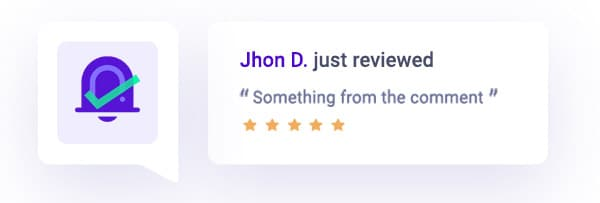
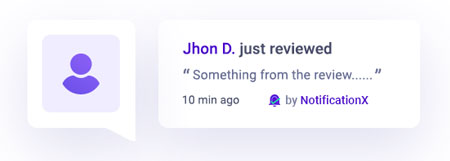
CSS Issue fix - 2

diff --git a/public/assets/css/notificationx-public.min.css b/public/assets/css/notificationx-public.min.css
@@ -1,1 +1,1 @@
-.nx-notification{position:fixed;left:30px;z-index:9999}a.notificationx-link{position:absolute;left:0;top:0;width:100%;height:100%;outline:0}.nx-notification.nx-bottom_right{right:30px;left:auto}.notificationx-inner{display:flex;align-items:center;overflow:hidden;padding:15px;background:#fff;box-shadow:0 0 30px 0 rgba(0,0,0,.1);max-width:400px}.nx-flex-reverse.notificationx-inner{flex-direction:row-reverse}.nx-has-close-btn.notificationx-inner{padding-right:30px!important}span.notificationx-close{position:absolute;right:10px;top:10px;z-index:999;cursor:pointer;width:8px;height:8px}span.notificationx-close>svg{fill:#000;position:absolute}.notificationx-image{width:60px;height:60px;overflow:hidden;float:left;margin-right:15px;display:flex;align-items:center;flex-shrink:0}.nx-img-right .notificationx-image{margin-left:15px;margin-right:0}.notificationx-image img.nx-img-square{border-radius:0!important}.notificationx-image img.nx-img-circle,.notificationx-image>img{border-radius:50%!important}.notificationx-image img.nx-img-rounded{border-radius:5px!important}.notificationx-image>img{width:100%}.notificationx-inner.nx-img-right .notificationx-content{display:flex;flex-direction:column}.notificationx-inner.nx-img-right .notificationx-content .nx-branding{position:static;margin-left:15px;padding:0}.notificationx-content{float:left;min-width:200px;display:flex;flex-direction:column}.notificationx-content>span{display:block}.notificationx-content>span.nx-third-row{display:inline-block;width:100%;overflow:hidden}.nx-first-row{font-size:12px;line-height:1.2}.nx-second-row{margin:5px 0;font-size:14px;font-weight:bolder;line-height:1.5}.nx-third-row{font-size:11px;line-height:1}.nx-author{font-weight:600}.nx-time{display:block}.nx-bar{background:#ddd;position:absolute;z-index:999999;visibility:hidden;width:100%;left:0;text-align:center;transition:height .3s ease-in-out 0s}.nx-bar .nx-bar-inner{padding:20px;display:inline-block}.nx-bar-content-wrap{display:flex;align-items:center}.nx-bar-content{display:inline-block;margin-left:15px}.nx-bar.nx-position-bottom{position:fixed;bottom:0}.nx-bar.nx-position-top{top:0}.nx-bar-visible{visibility:visible}a.nx-bar-button{font-size:14px;padding:6px 15px;margin-left:15px;background-color:#262626;color:#fff;border-radius:3px}a.nx-bar-button:hover{color:#fff}.nx-close{margin:0;position:absolute;right:30px;margin-top:-5px;cursor:pointer;top:50%;color:#fff;border-radius:50%;width:10px;height:10px;line-height:17px;font-size:14px}.nx-close>svg{position:absolute;left:0}.nx-sticky-bar{position:fixed;width:100%}.nx-countdown-wrapper{display:flex;align-items:center}.nx-countdown{overflow:hidden;background-color:#262626;color:#fff}.nx-countdown-text{margin-right:10px}.nx-time-section{float:left;margin:0 5px;padding:10px;position:relative;width:40px}.nx-time-section:after{content:":";position:absolute;right:-6px;top:9px;line-height:1}.nx-time-section:last-of-type:after{display:none}.nx-time-section>span{display:block;line-height:1}.nx-time-section>span.nx-countdown-time-text{display:none;font-size:14px}.nx-countdown.nx-expired .nx-time-section{background-color:#262626}.nx-countdown .nx-expired-text,.nx-countdown.nx-expired .nx-time-section>span{display:none}.nx-countdown.nx-expired .nx-expired-text{display:block}.nx-bar.theme-two{background-color:#5704a2;color:#fff}.nx-bar.theme-three{background-color:#3f4462;color:#fff}.nx-bar.theme-three .nx-time-section,.nx-bar.theme-three a.nx-bar-button{background-color:#6549fe}.nx-bar.theme-three .nx-time-section:after{content:''}.nx-bar.theme-three .nx-countdown{background-color:transparent}.nx-bar.theme-three .nx-time-section{width:55px}.nx-bar.theme-three .nx-time-section>span.nx-countdown-time-text{display:block}.nx-bar.theme-three p.nx-close>svg,.nx-bar.theme-two p.nx-close>svg{fill:#fff}.nx-branding{font-size:10px;color:#999;margin-left:2px;vertical-align:middle;z-index:9999;float:right;position:relative;top:-4px}.nx-img-right .nx-branding{float:none}.nx-branding svg{position:relative;top:4px}a.nx-powered-by{cursor:pointer;color:#5614d5;transition:all .3s ease-in-out;text-decoration:none}a.nx-powered-by:hover{color:#21d8a3}.notificationx-inner.nx-notification-theme-one{border:1px solid #f2f2f2}.notificationx-inner.nx-notification-review_saying,.notificationx-inner.nx-notification-reviewed,.notificationx-inner.nx-notification-theme-two,.notificationx-inner.nx-notification-total-download{border-radius:50px;padding-right:50px}.notificationx-inner.nx-notification-review_saying span.notificationx-close,.notificationx-inner.nx-notification-reviewed span.notificationx-close,.notificationx-inner.nx-notification-theme-two span.notificationx-close,.notificationx-inner.nx-notification-total-download span.notificationx-close{right:20px;top:25px}.nx-notification-review_saying .nx-branding,.nx-notification-reviewed .nx-branding,.nx-notification-theme-two .nx-branding,.nx-notification-total-download .nx-branding{right:20px}.nx-notification-7day-download .notificationx-content .nx-first-row,.nx-notification-actively_using .notificationx-content .nx-second-row,.nx-notification-review_saying .notificationx-content .nx-second-row,.nx-notification-today-download .notificationx-content .nx-first-row,.nx-notification-total-download .notificationx-content .nx-first-row{color:#6c63ff}.nx-download_stats .nx-notification-actively_using .notificationx-content .nx-first-row{font-weight:400}.nx-download_stats .nx-notification-actively_using .notificationx-content .nx-second-row{font-weight:700}.nx-notification-7day-download .notificationx-content .nx-third-row,.nx-notification-today-download .notificationx-content .nx-third-row,.nx-notification-total-download .notificationx-content .nx-third-row{color:#999}.nx-notification-review_saying .notificationx-content{max-width:250px}.notificationx-inner.nx-notification-theme-three{padding:0}.notificationx-inner.nx-notification-theme-three .notificationx-image{width:80px;height:80px;padding:10px}.notificationx-inner.nx-notification-theme-three .notificationx-image{border-right:1px solid #f2f2f2}.notificationx-inner.nx-notification-theme-three.nx-img-right .notificationx-image{border-left:1px solid #f2f2f2;border-right:0}.notificationx-inner.nx-img-right.nx-notification-reviewed .notificationx-content,.notificationx-inner.nx-img-right.nx-notification-theme-three .notificationx-content{padding-left:15px}.notificationx-inner.nx-notification-theme-three.nx-img-right .notificationx-content{padding-top:15px;padding-bottom:15px}.notificationx-inner.nx-notification-theme-three.nx-img-right .notificationx-image{height:auto;display:flex;align-items:center;align-self:stretch}.notificationx-inner.nx-notification-theme-two.nx-img-right.nx-has-close-btn{padding-right:20px!important}.notificationx-inner.nx-img-right.nx-notification-reviewed.nx-has-close-btn .notificationx-content,.notificationx-inner.nx-notification-theme-two.nx-img-right.nx-has-close-btn .notificationx-content{padding-left:25px}.notificationx-inner.nx-notification-reviewed.nx-img-right span.notificationx-close,.notificationx-inner.nx-notification-theme-two.nx-img-right span.notificationx-close{right:auto;left:19px;top:50%;margin-top:-4px}.nx-download_stats .notificationx-content .nx-first-row{font-weight:700}.nx-download_stats .notificationx-content .nx-second-row{font-size:12px;font-weight:400}.nx-download_stats .notificationx-image>img,.nx-reviews .notificationx-image>img{width:100%}.notificationx-inner.nx-notification-review-comment,.nx-wp_comments .notificationx-inner.nx-notification-theme-six-free{background-color:transparent!important;box-shadow:none;padding:0;overflow:visible;align-items:stretch;color:#697097}.nx-has-close-btn.notificationx-inner.nx-notification-review-comment,.nx-has-close-btn.notificationx-inner.nx-notification-theme-six-free{padding-right:0!important}.notificationx-inner.nx-notification-review-comment .notificationx-image,.nx-wp_comments .notificationx-inner.nx-notification-theme-six-free .notificationx-image{width:auto;padding:10px;box-shadow:0 0 30px 0 rgba(36,30,157,.12);flex-shrink:0;height:auto;border-radius:10px;background-color:#fff;position:relative;overflow:visible;border-bottom-right-radius:0}.notificationx-inner.nx-notification-review-comment .notificationx-image:after,.nx-wp_comments .notificationx-inner.nx-notification-theme-six-free .notificationx-image:after{content:'';position:absolute;bottom:-10px;right:0;border-top:15px solid transparent;border-bottom:15px solid transparent;border-right:30px solid #fff;width:56px;height:39px;z-index:2}.notificationx-inner.nx-notification-review-comment .notificationx-image:before,.nx-wp_comments .notificationx-inner.nx-notification-theme-six-free .notificationx-image:before{content:'';position:absolute;height:2px;width:20px;right:0;bottom:0;box-shadow:0 20px 30px rgba(36,30,157,.12);z-index:1}.notificationx-inner.nx-notification-review-comment .notificationx-image img,.nx-wp_comments .notificationx-inner.nx-notification-theme-six-free .notificationx-image img{width:100%;max-width:100px;position:relative;z-index:3}.notificationx-inner.nx-notification-review-comment .notificationx-content,.nx-wp_comments .notificationx-inner.nx-notification-theme-six-free .notificationx-content{padding:10px 20px;background-color:#fff;border-radius:10px;box-shadow:0 0 30px rgba(36,30,157,.12);font-family:Roboto,sans-serif}.notificationx-inner.nx-notification-review-comment .notificationx-content .nx-first-row,.nx-wp_comments .notificationx-inner.nx-notification-theme-six-free .notificationx-content .nx-first-row{font-size:16px;font-weight:700}.notificationx-inner.nx-notification-review-comment .notificationx-content .nx-first-row .title,.nx-wp_comments .notificationx-inner.nx-notification-theme-six-free .notificationx-content .nx-first-row .title{color:#4f06ce}.notificationx-inner.nx-notification-review-comment .notificationx-content .nx-second-row,.nx-wp_comments .notificationx-inner.nx-notification-theme-six-free .notificationx-content .nx-second-row{font-weight:400;font-size:14px;margin-bottom:7px}.notificationx-inner.nx-notification-review-comment .nx-branding,.nx-wp_comments .notificationx-inner.nx-notification-theme-six-free .nx-branding{bottom:12px;padding-top:0;right:15px;color:inherit}.notificationx-inner.nx-notification-review-comment span.notificationx-close,.nx-wp_comments .notificationx-inner.nx-notification-theme-six-free span.notificationx-close{right:15px}.notificationx-inner.nx-notification-review-comment-2,.notificationx-inner.nx-notification-review-comment-3,.notificationx-inner.nx-notification-theme-eight-free,.notificationx-inner.nx-notification-theme-seven-free{border-radius:120px;padding:0;overflow:visible;max-height:105px;min-width:400px;box-shadow:0 0 25px rgba(36,30,157,.12);background-color:#fff;color:#484d6b}.notificationx-inner.nx-notification-review-comment-2 .notificationx-image,.notificationx-inner.nx-notification-review-comment-3 .notificationx-image,.notificationx-inner.nx-notification-theme-eight-free .notificationx-image,.notificationx-inner.nx-notification-theme-seven-free .notificationx-image{flex-shrink:0;width:105px;height:105px;border-radius:50%;position:relative;overflow:visible}.notificationx-inner.nx-notification-review-comment-2 .notificationx-image,.notificationx-inner.nx-notification-theme-seven-free .notificationx-image{background-color:#fae8f4}.notificationx-inner.nx-notification-review-comment-3 .notificationx-image,.notificationx-inner.nx-notification-theme-eight-free .notificationx-image{background-color:#f0edff}.notificationx-inner.nx-notification-review-comment-2 .notificationx-image:before,.notificationx-inner.nx-notification-review-comment-3 .notificationx-image:before,.notificationx-inner.nx-notification-theme-eight-free .notificationx-image:before,.notificationx-inner.nx-notification-theme-seven-free .notificationx-image:before{content:'';width:28px;height:28px;background-image:url(../img/nx-quote-icon.png);background-repeat:no-repeat;background-position:center;background-size:55%;border:3px solid #fff;border-radius:50%;position:absolute;left:-2px;top:0;box-shadow:0 0 10px rgba(36,30,157,.12);z-index:1}.notificationx-inner.nx-notification-review-comment-2 .notificationx-image:before,.notificationx-inner.nx-notification-theme-seven-free .notificationx-image:before{background-color:#fe67b7}.notificationx-inner.nx-notification-review-comment-3 .notificationx-image:before,.notificationx-inner.nx-notification-theme-eight-free .notificationx-image:before{background-color:#7253ec}.notificationx-inner.nx-notification-review-comment-2 .notificationx-content,.notificationx-inner.nx-notification-review-comment-3 .notificationx-content,.notificationx-inner.nx-notification-theme-eight-free .notificationx-content,.notificationx-inner.nx-notification-theme-seven-free .notificationx-content{padding:13px 0;font-family:Roboto,sans-serif}.notificationx-inner.nx-notification-review-comment-2 .notificationx-content .nx-first-row,.notificationx-inner.nx-notification-review-comment-3 .notificationx-content .nx-first-row,.notificationx-inner.nx-notification-theme-eight-free .notificationx-content .nx-first-row,.notificationx-inner.nx-notification-theme-seven-free .notificationx-content .nx-first-row{font-size:15px;font-weight:700;color:inherit;padding-right:15px}.notificationx-inner.nx-notification-review-comment-2 .notificationx-content .title,.notificationx-inner.nx-notification-theme-seven-free .notificationx-content .title{color:#fe67b7}.notificationx-inner.nx-notification-review-comment-3 .notificationx-content .title,.notificationx-inner.nx-notification-theme-eight-free .notificationx-content .title{color:#7253ec}.notificationx-inner.nx-notification-review-comment-2 .notificationx-content .nx-second-row,.notificationx-inner.nx-notification-review-comment-3 .notificationx-content .nx-second-row,.notificationx-inner.nx-notification-theme-eight-free .notificationx-content .nx-second-row,.notificationx-inner.nx-notification-theme-seven-free .notificationx-content .nx-second-row{font-weight:400;font-size:13px;margin-bottom:7px;color:inherit;line-height:1.4;font-style:italic}.notificationx-inner.nx-notification-review-comment-2 .notificationx-content .nx-third-row,.notificationx-inner.nx-notification-review-comment-3 .notificationx-content .nx-third-row,.notificationx-inner.nx-notification-theme-eight-free .notificationx-content .nx-third-row,.notificationx-inner.nx-notification-theme-seven-free .notificationx-content .nx-third-row{font-size:13px}.notificationx-inner.nx-notification-review-comment-2 .notificationx-content .notificationx-close,.notificationx-inner.nx-notification-review-comment-3 .notificationx-content .notificationx-close,.notificationx-inner.nx-notification-theme-eight-free .notificationx-content .notificationx-close,.notificationx-inner.nx-notification-theme-seven-free .notificationx-content .notificationx-close{right:30px;top:19px}.notificationx-inner.nx-notification-review-comment-2 .notificationx-content .nx-branding,.notificationx-inner.nx-notification-review-comment-3 .notificationx-content .nx-branding,.notificationx-inner.nx-notification-theme-eight-free .notificationx-content .nx-branding,.notificationx-inner.nx-notification-theme-seven-free .notificationx-content .nx-branding{padding:0;right:40px;bottom:10px}.notificationx-inner.nx-notification-review-comment-3 .notificationx-content,.notificationx-inner.nx-notification-theme-eight-free .notificationx-content{background-image:url(../img/nx-quote-bg.png);background-repeat:no-repeat;background-position:left 53%}.nx-notification-theme-eight-free.nx-img-right.nx-has-close-btn.notificationx-inner,.nx-notification-theme-seven-free.nx-img-right.nx-has-close-btn.notificationx-inner{padding-right:0!important;padding-left:50px}.nx-notification-theme-eight-free.nx-img-right.nx-has-close-btn.notificationx-inner .notificationx-close,.nx-notification-theme-seven-free.nx-img-right.nx-has-close-btn.notificationx-inner .notificationx-close{right:auto;left:20px;top:50%;margin-top:-4px}.notificationx-inner.nx-notification-theme-six-free .notificationx-image img{border-radius:0!important}.nx-reviews .notificationx-image.product_image>img{width:80px;margin:0 auto}
+.nx-notification{position:fixed;left:30px;z-index:9999}a.notificationx-link{position:absolute;left:0;top:0;width:100%;height:100%;outline:0}.nx-notification.nx-bottom_right{right:30px;left:auto}.notificationx-inner{display:flex;align-items:center;overflow:hidden;padding:15px;background:#fff;box-shadow:0 0 30px 0 rgba(0,0,0,.1);max-width:400px}.nx-flex-reverse.notificationx-inner{flex-direction:row-reverse}.nx-has-close-btn.notificationx-inner{padding-right:30px!important}span.notificationx-close{position:absolute;right:10px;top:10px;z-index:999;cursor:pointer;width:8px;height:8px}span.notificationx-close>svg{fill:#000;position:absolute}.notificationx-image{width:60px;height:60px;overflow:hidden;float:left;margin-right:15px;display:flex;align-items:center;flex-shrink:0}.nx-img-right .notificationx-image{margin-left:15px;margin-right:0}.notificationx-image img.nx-img-square{border-radius:0!important}.notificationx-image img.nx-img-circle,.notificationx-image>img{border-radius:50%!important}.notificationx-image img.nx-img-rounded{border-radius:5px!important}.notificationx-image>img{width:100%}.notificationx-inner.nx-img-right .notificationx-content{display:flex;flex-direction:column}.notificationx-inner.nx-img-right .notificationx-content .nx-branding{position:static;margin-left:15px;padding:0}.notificationx-content{float:left;min-width:200px;display:flex;flex-direction:column}.notificationx-content>span{display:block}.notificationx-content>span.nx-third-row{display:inline-block;width:100%;overflow:hidden}.nx-first-row{font-size:12px;line-height:1.2}.nx-second-row{margin:5px 0;font-size:14px;font-weight:bolder;line-height:1.5}.nx-third-row{font-size:11px;line-height:1}.nx-author{font-weight:600}.nx-time{display:block}.nx-bar{background:#ddd;position:absolute;z-index:999999;visibility:hidden;width:100%;left:0;text-align:center;transition:height .3s ease-in-out 0s}.nx-bar .nx-bar-inner{padding:20px;display:inline-block}.nx-bar-content-wrap{display:flex;align-items:center}.nx-bar-content{display:inline-block;margin-left:15px}.nx-bar.nx-position-bottom{position:fixed;bottom:0}.nx-bar.nx-position-top{top:0}.nx-bar-visible{visibility:visible}a.nx-bar-button{font-size:14px;padding:6px 15px;margin-left:15px;background-color:#262626;color:#fff;border-radius:3px}a.nx-bar-button:hover{color:#fff}.nx-close{margin:0;position:absolute;right:30px;margin-top:-5px;cursor:pointer;top:50%;color:#fff;border-radius:50%;width:10px;height:10px;line-height:17px;font-size:14px}.nx-close>svg{position:absolute;left:0}.nx-sticky-bar{position:fixed;width:100%}.nx-countdown-wrapper{display:flex;align-items:center}.nx-countdown{overflow:hidden;background-color:#262626;color:#fff}.nx-countdown-text{margin-right:10px}.nx-time-section{float:left;margin:0 5px;padding:10px;position:relative;width:40px}.nx-time-section:after{content:":";position:absolute;right:-6px;top:9px;line-height:1}.nx-time-section:last-of-type:after{display:none}.nx-time-section>span{display:block;line-height:1}.nx-time-section>span.nx-countdown-time-text{display:none;font-size:14px}.nx-countdown.nx-expired .nx-time-section{background-color:#262626}.nx-countdown .nx-expired-text,.nx-countdown.nx-expired .nx-time-section>span{display:none}.nx-countdown.nx-expired .nx-expired-text{display:block}.nx-bar.theme-two{background-color:#5704a2;color:#fff}.nx-bar.theme-three{background-color:#3f4462;color:#fff}.nx-bar.theme-three .nx-time-section,.nx-bar.theme-three a.nx-bar-button{background-color:#6549fe}.nx-bar.theme-three .nx-time-section:after{content:''}.nx-bar.theme-three .nx-countdown{background-color:transparent}.nx-bar.theme-three .nx-time-section{width:55px}.nx-bar.theme-three .nx-time-section>span.nx-countdown-time-text{display:block}.nx-bar.theme-three p.nx-close>svg,.nx-bar.theme-two p.nx-close>svg{fill:#fff}.nx-branding{font-size:10px;color:#999;margin-left:2px;vertical-align:middle;z-index:9999;float:right;position:relative;top:-4px}.nx-img-right .nx-branding{float:none}.nx-branding svg{position:relative;top:4px}a.nx-powered-by{cursor:pointer;color:#5614d5;transition:all .3s ease-in-out;text-decoration:none}a.nx-powered-by:hover{color:#21d8a3}.notificationx-inner.nx-notification-theme-one{border:1px solid #f2f2f2}.notificationx-inner.nx-notification-review_saying,.notificationx-inner.nx-notification-reviewed,.notificationx-inner.nx-notification-theme-two,.notificationx-inner.nx-notification-total-download{border-radius:50px;padding-right:50px}.notificationx-inner.nx-notification-review_saying span.notificationx-close,.notificationx-inner.nx-notification-reviewed span.notificationx-close,.notificationx-inner.nx-notification-theme-two span.notificationx-close,.notificationx-inner.nx-notification-total-download span.notificationx-close{right:20px;top:25px}.nx-notification-review_saying .nx-branding,.nx-notification-reviewed .nx-branding,.nx-notification-theme-two .nx-branding,.nx-notification-total-download .nx-branding{right:20px}.nx-notification-7day-download .notificationx-content .nx-first-row,.nx-notification-actively_using .notificationx-content .nx-second-row,.nx-notification-review_saying .notificationx-content .nx-second-row,.nx-notification-today-download .notificationx-content .nx-first-row,.nx-notification-total-download .notificationx-content .nx-first-row{color:#6c63ff}.nx-download_stats .nx-notification-actively_using .notificationx-content .nx-first-row{font-weight:400}.nx-download_stats .nx-notification-actively_using .notificationx-content .nx-second-row{font-weight:700}.nx-notification-7day-download .notificationx-content .nx-third-row,.nx-notification-today-download .notificationx-content .nx-third-row,.nx-notification-total-download .notificationx-content .nx-third-row{color:#999}.nx-notification-review_saying .notificationx-content{max-width:250px}.notificationx-inner.nx-notification-theme-three{padding:0}.notificationx-inner.nx-notification-theme-three .notificationx-image{width:80px;height:80px;padding:10px}.notificationx-inner.nx-notification-theme-three .notificationx-image{border-right:1px solid #f2f2f2}.notificationx-inner.nx-notification-theme-three.nx-img-right .notificationx-image{border-left:1px solid #f2f2f2;border-right:0}.notificationx-inner.nx-img-right.nx-notification-reviewed .notificationx-content,.notificationx-inner.nx-img-right.nx-notification-theme-three .notificationx-content{padding-left:15px}.notificationx-inner.nx-notification-theme-three.nx-img-right .notificationx-content{padding-top:15px;padding-bottom:15px}.notificationx-inner.nx-notification-theme-three.nx-img-right .notificationx-image{height:auto;display:flex;align-items:center;align-self:stretch}.notificationx-inner.nx-notification-theme-two.nx-img-right.nx-has-close-btn{padding-right:20px!important}.notificationx-inner.nx-img-right.nx-notification-reviewed.nx-has-close-btn .notificationx-content,.notificationx-inner.nx-notification-theme-two.nx-img-right.nx-has-close-btn .notificationx-content{padding-left:25px}.notificationx-inner.nx-notification-reviewed.nx-img-right span.notificationx-close,.notificationx-inner.nx-notification-theme-two.nx-img-right span.notificationx-close{right:auto;left:19px;top:50%;margin-top:-4px}.nx-download_stats .notificationx-content .nx-first-row{font-weight:700}.nx-download_stats .notificationx-content .nx-second-row{font-size:12px;font-weight:400}.nx-download_stats .notificationx-image>img,.nx-reviews .notificationx-image>img{width:100%}.notificationx-inner.nx-notification-review-comment,.nx-wp_comments .notificationx-inner.nx-notification-theme-six-free{background-color:transparent!important;box-shadow:none;padding:0;overflow:visible;align-items:stretch;color:#697097}.nx-has-close-btn.notificationx-inner.nx-notification-review-comment,.nx-has-close-btn.notificationx-inner.nx-notification-theme-six-free{padding-right:0!important}.notificationx-inner.nx-notification-review-comment .notificationx-image,.nx-wp_comments .notificationx-inner.nx-notification-theme-six-free .notificationx-image{width:auto;padding:10px;box-shadow:0 0 30px 0 rgba(36,30,157,.12);flex-shrink:0;height:auto;border-radius:10px;background-color:#fff;position:relative;overflow:visible;border-bottom-right-radius:0}.notificationx-inner.nx-notification-review-comment .notificationx-image:after,.nx-wp_comments .notificationx-inner.nx-notification-theme-six-free .notificationx-image:after{content:'';position:absolute;bottom:-10px;right:0;border-top:15px solid transparent;border-bottom:15px solid transparent;border-right:30px solid #fff;width:56px;height:39px;z-index:2}.notificationx-inner.nx-notification-review-comment .notificationx-image:before,.nx-wp_comments .notificationx-inner.nx-notification-theme-six-free .notificationx-image:before{content:'';position:absolute;height:2px;width:20px;right:0;bottom:0;box-shadow:0 20px 30px rgba(36,30,157,.12);z-index:1}.notificationx-inner.nx-notification-review-comment .notificationx-image img,.nx-wp_comments .notificationx-inner.nx-notification-theme-six-free .notificationx-image img{width:100%;max-width:100px;position:relative;z-index:3}.notificationx-inner.nx-notification-review-comment .notificationx-content,.nx-wp_comments .notificationx-inner.nx-notification-theme-six-free .notificationx-content{padding:10px 20px;background-color:#fff;border-radius:10px;box-shadow:0 0 30px rgba(36,30,157,.12);font-family:Roboto,sans-serif}.notificationx-inner.nx-notification-review-comment .notificationx-content .nx-first-row,.nx-wp_comments .notificationx-inner.nx-notification-theme-six-free .notificationx-content .nx-first-row{font-size:16px;font-weight:700}.notificationx-inner.nx-notification-review-comment .notificationx-content .nx-first-row .title,.nx-wp_comments .notificationx-inner.nx-notification-theme-six-free .notificationx-content .nx-first-row .title{color:#4f06ce}.notificationx-inner.nx-notification-review-comment .notificationx-content .nx-second-row,.nx-wp_comments .notificationx-inner.nx-notification-theme-six-free .notificationx-content .nx-second-row{font-weight:400;font-size:14px;margin-bottom:7px}.notificationx-inner.nx-notification-review-comment .nx-branding,.nx-wp_comments .notificationx-inner.nx-notification-theme-six-free .nx-branding{bottom:12px;padding-top:0;right:15px;color:inherit}.notificationx-inner.nx-notification-review-comment span.notificationx-close,.nx-wp_comments .notificationx-inner.nx-notification-theme-six-free span.notificationx-close{right:15px}.notificationx-inner.nx-notification-review-comment-2,.notificationx-inner.nx-notification-review-comment-3,.notificationx-inner.nx-notification-theme-eight-free,.notificationx-inner.nx-notification-theme-seven-free{border-radius:120px;padding:0;overflow:visible;max-height:105px;min-width:400px;box-shadow:0 0 25px rgba(36,30,157,.12);background-color:#fff;color:#484d6b}.notificationx-inner.nx-notification-review-comment-2 .notificationx-image,.notificationx-inner.nx-notification-review-comment-3 .notificationx-image,.notificationx-inner.nx-notification-theme-eight-free .notificationx-image,.notificationx-inner.nx-notification-theme-seven-free .notificationx-image{flex-shrink:0;width:105px;height:105px;border-radius:50%;position:relative;overflow:visible}.notificationx-inner.nx-notification-review-comment-2 .notificationx-image,.notificationx-inner.nx-notification-theme-seven-free .notificationx-image{background-color:#fae8f4}.notificationx-inner.nx-notification-review-comment-3 .notificationx-image,.notificationx-inner.nx-notification-theme-eight-free .notificationx-image{background-color:#f0edff}.notificationx-inner.nx-notification-review-comment-2 .notificationx-image:before,.notificationx-inner.nx-notification-review-comment-3 .notificationx-image:before,.notificationx-inner.nx-notification-theme-eight-free .notificationx-image:before,.notificationx-inner.nx-notification-theme-seven-free .notificationx-image:before{content:'';width:28px;height:28px;background-image:url(../img/nx-quote-icon.png);background-repeat:no-repeat;background-position:center;background-size:55%;border:3px solid #fff;border-radius:50%;position:absolute;left:-2px;top:0;box-shadow:0 0 10px rgba(36,30,157,.12);z-index:1}.notificationx-inner.nx-notification-review-comment-2 .notificationx-image:before,.notificationx-inner.nx-notification-theme-seven-free .notificationx-image:before{background-color:#fe67b7}.notificationx-inner.nx-notification-review-comment-3 .notificationx-image:before,.notificationx-inner.nx-notification-theme-eight-free .notificationx-image:before{background-color:#7253ec}.notificationx-inner.nx-notification-review-comment-2 .notificationx-content,.notificationx-inner.nx-notification-review-comment-3 .notificationx-content,.notificationx-inner.nx-notification-theme-eight-free .notificationx-content,.notificationx-inner.nx-notification-theme-seven-free .notificationx-content{padding:13px 0;font-family:Roboto,sans-serif}.notificationx-inner.nx-notification-review-comment-2 .notificationx-content .nx-first-row,.notificationx-inner.nx-notification-review-comment-3 .notificationx-content .nx-first-row,.notificationx-inner.nx-notification-theme-eight-free .notificationx-content .nx-first-row,.notificationx-inner.nx-notification-theme-seven-free .notificationx-content .nx-first-row{font-size:15px;font-weight:700;color:inherit;padding-right:15px}.notificationx-inner.nx-notification-review-comment-2 .notificationx-content .title,.notificationx-inner.nx-notification-theme-seven-free .notificationx-content .title{color:#fe67b7}.notificationx-inner.nx-notification-review-comment-3 .notificationx-content .title,.notificationx-inner.nx-notification-theme-eight-free .notificationx-content .title{color:#7253ec}.notificationx-inner.nx-notification-review-comment-2 .notificationx-content .nx-second-row,.notificationx-inner.nx-notification-review-comment-3 .notificationx-content .nx-second-row,.notificationx-inner.nx-notification-theme-eight-free .notificationx-content .nx-second-row,.notificationx-inner.nx-notification-theme-seven-free .notificationx-content .nx-second-row{font-weight:400;font-size:13px;margin-bottom:7px;color:inherit;line-height:1.4;font-style:italic}.notificationx-inner.nx-notification-review-comment-2 .notificationx-content .nx-third-row,.notificationx-inner.nx-notification-review-comment-3 .notificationx-content .nx-third-row,.notificationx-inner.nx-notification-theme-eight-free .notificationx-content .nx-third-row,.notificationx-inner.nx-notification-theme-seven-free .notificationx-content .nx-third-row{font-size:13px}.notificationx-inner.nx-notification-review-comment-2 .notificationx-content .notificationx-close,.notificationx-inner.nx-notification-review-comment-3 .notificationx-content .notificationx-close,.notificationx-inner.nx-notification-theme-eight-free .notificationx-content .notificationx-close,.notificationx-inner.nx-notification-theme-seven-free .notificationx-content .notificationx-close{right:30px;top:19px}.notificationx-inner.nx-notification-review-comment-2 .notificationx-content .nx-branding,.notificationx-inner.nx-notification-review-comment-3 .notificationx-content .nx-branding,.notificationx-inner.nx-notification-theme-eight-free .notificationx-content .nx-branding,.notificationx-inner.nx-notification-theme-seven-free .notificationx-content .nx-branding{padding:0;right:40px;bottom:10px}.notificationx-inner.nx-notification-review-comment-3 .notificationx-content,.notificationx-inner.nx-notification-theme-eight-free .notificationx-content{background-image:url(../img/nx-quote-bg.png);background-repeat:no-repeat;background-position:left 53%}.nx-notification-theme-eight-free.nx-img-right.nx-has-close-btn.notificationx-inner,.nx-notification-theme-seven-free.nx-img-right.nx-has-close-btn.notificationx-inner{padding-right:0!important;padding-left:50px}.nx-notification-theme-eight-free.nx-img-right.nx-has-close-btn.notificationx-inner .notificationx-close,.nx-notification-theme-seven-free.nx-img-right.nx-has-close-btn.notificationx-inner .notificationx-close{right:auto;left:20px;top:50%;margin-top:-4px}.notificationx-inner.nx-notification-theme-six-free .notificationx-image img{border-radius:0!important}.nx-reviews .notificationx-image.product_image>img{width:80px;margin:0 auto}.notificationx-inner.has-no-image.nx-notification-theme-three{padding:15px}.notificationx-inner.has-no-image.nx-notification-theme-eight-free,.notificationx-inner.has-no-image.nx-notification-theme-seven-free,.notificationx-inner.has-no-image.nx-notification-theme-two{padding-left:30px}

diff --git a/public/assets/css/notificationx-public.css b/public/assets/css/notificationx-public.css
@@ -755,3 +755,13 @@ a.nx-powered-by:hover {
     width: 80px;
     margin: 0 auto;
 }
+
+.notificationx-inner.has-no-image.nx-notification-theme-three {
+    padding: 15px;
+}
+
+.notificationx-inner.has-no-image.nx-notification-theme-two,
+.notificationx-inner.has-no-image.nx-notification-theme-seven-free,
+.notificationx-inner.has-no-image.nx-notification-theme-eight-free {
+    padding-left: 30px;
+}

diff --git a/includes/class-nx-extension.php b/includes/class-nx-extension.php
@@ -308,13 +308,17 @@ class NotificationX_Extension {
         $output = '';
         $unique_id = uniqid( 'notificationx-' ); 
         $image_data = self::get_image_url( $raw_data, $settings );
+        $has_no_image = '';
+        if( $image_data == false || empty( $image_data ) ) {
+            $has_no_image = 'has-no-image';
+        }
         $output .= '<div id="'. esc_attr( $unique_id ) .'" class="'. implode( ' ', $frontend_classes['wrapper'] ) .'">';
             $output .= apply_filters( 'nx_frontend_before_html', '', $settings );
             $file = apply_filters( 'nx_frontend_before_inner', '', $settings->themeName );
             if( ! empty( $file ) ) {
                 $output .= $file;
             }
-            $output .= '<div class="'. implode( ' ', $frontend_classes['inner'] ) .'">';
+            $output .= '<div class="'. implode( ' ', $frontend_classes['inner'] ) .' '. $has_no_image .'">';
                 if( $image_data ) :
                     $img_attr = isset( $image_data['attr'] ) ? implode( ' ', $image_data['attr'] ) : '';
                     $img_classes = isset( $image_data['classes'] ) ? $image_data['classes'] : '';

diff --git a/extensions/wporg/class-wporg-review.php b/extensions/wporg/class-wporg-review.php
@@ -53,6 +53,24 @@ class NotificationXPro_WPOrgReview_Extension extends NotificationX_Extension {
                 'second_param' => 'people rated',
                 'third_param' => 'tag_plugin_name',
                 'fourth_param' => 'tag_rating',
+            ),
+            'review-comment' => array(
+                'first_param' => 'tag_username',
+                'second_param' => 'just reviewed',
+                'third_param' => 'tag_plugin_review',
+                'fourth_param' => 'tag_rating',
+            ),
+            'review-comment-2' => array(
+                'first_param' => 'tag_username',
+                'second_param' => 'just reviewed',
+                'third_param' => 'tag_plugin_review',
+                'fourth_param' => 'tag_rating',
+            ),
+            'review-comment-3' => array(
+                'first_param' => 'tag_username',
+                'second_param' => 'just reviewed',
+                'third_param' => 'tag_plugin_review',
+                'fourth_param' => 'tag_time',
             )
         );
 
